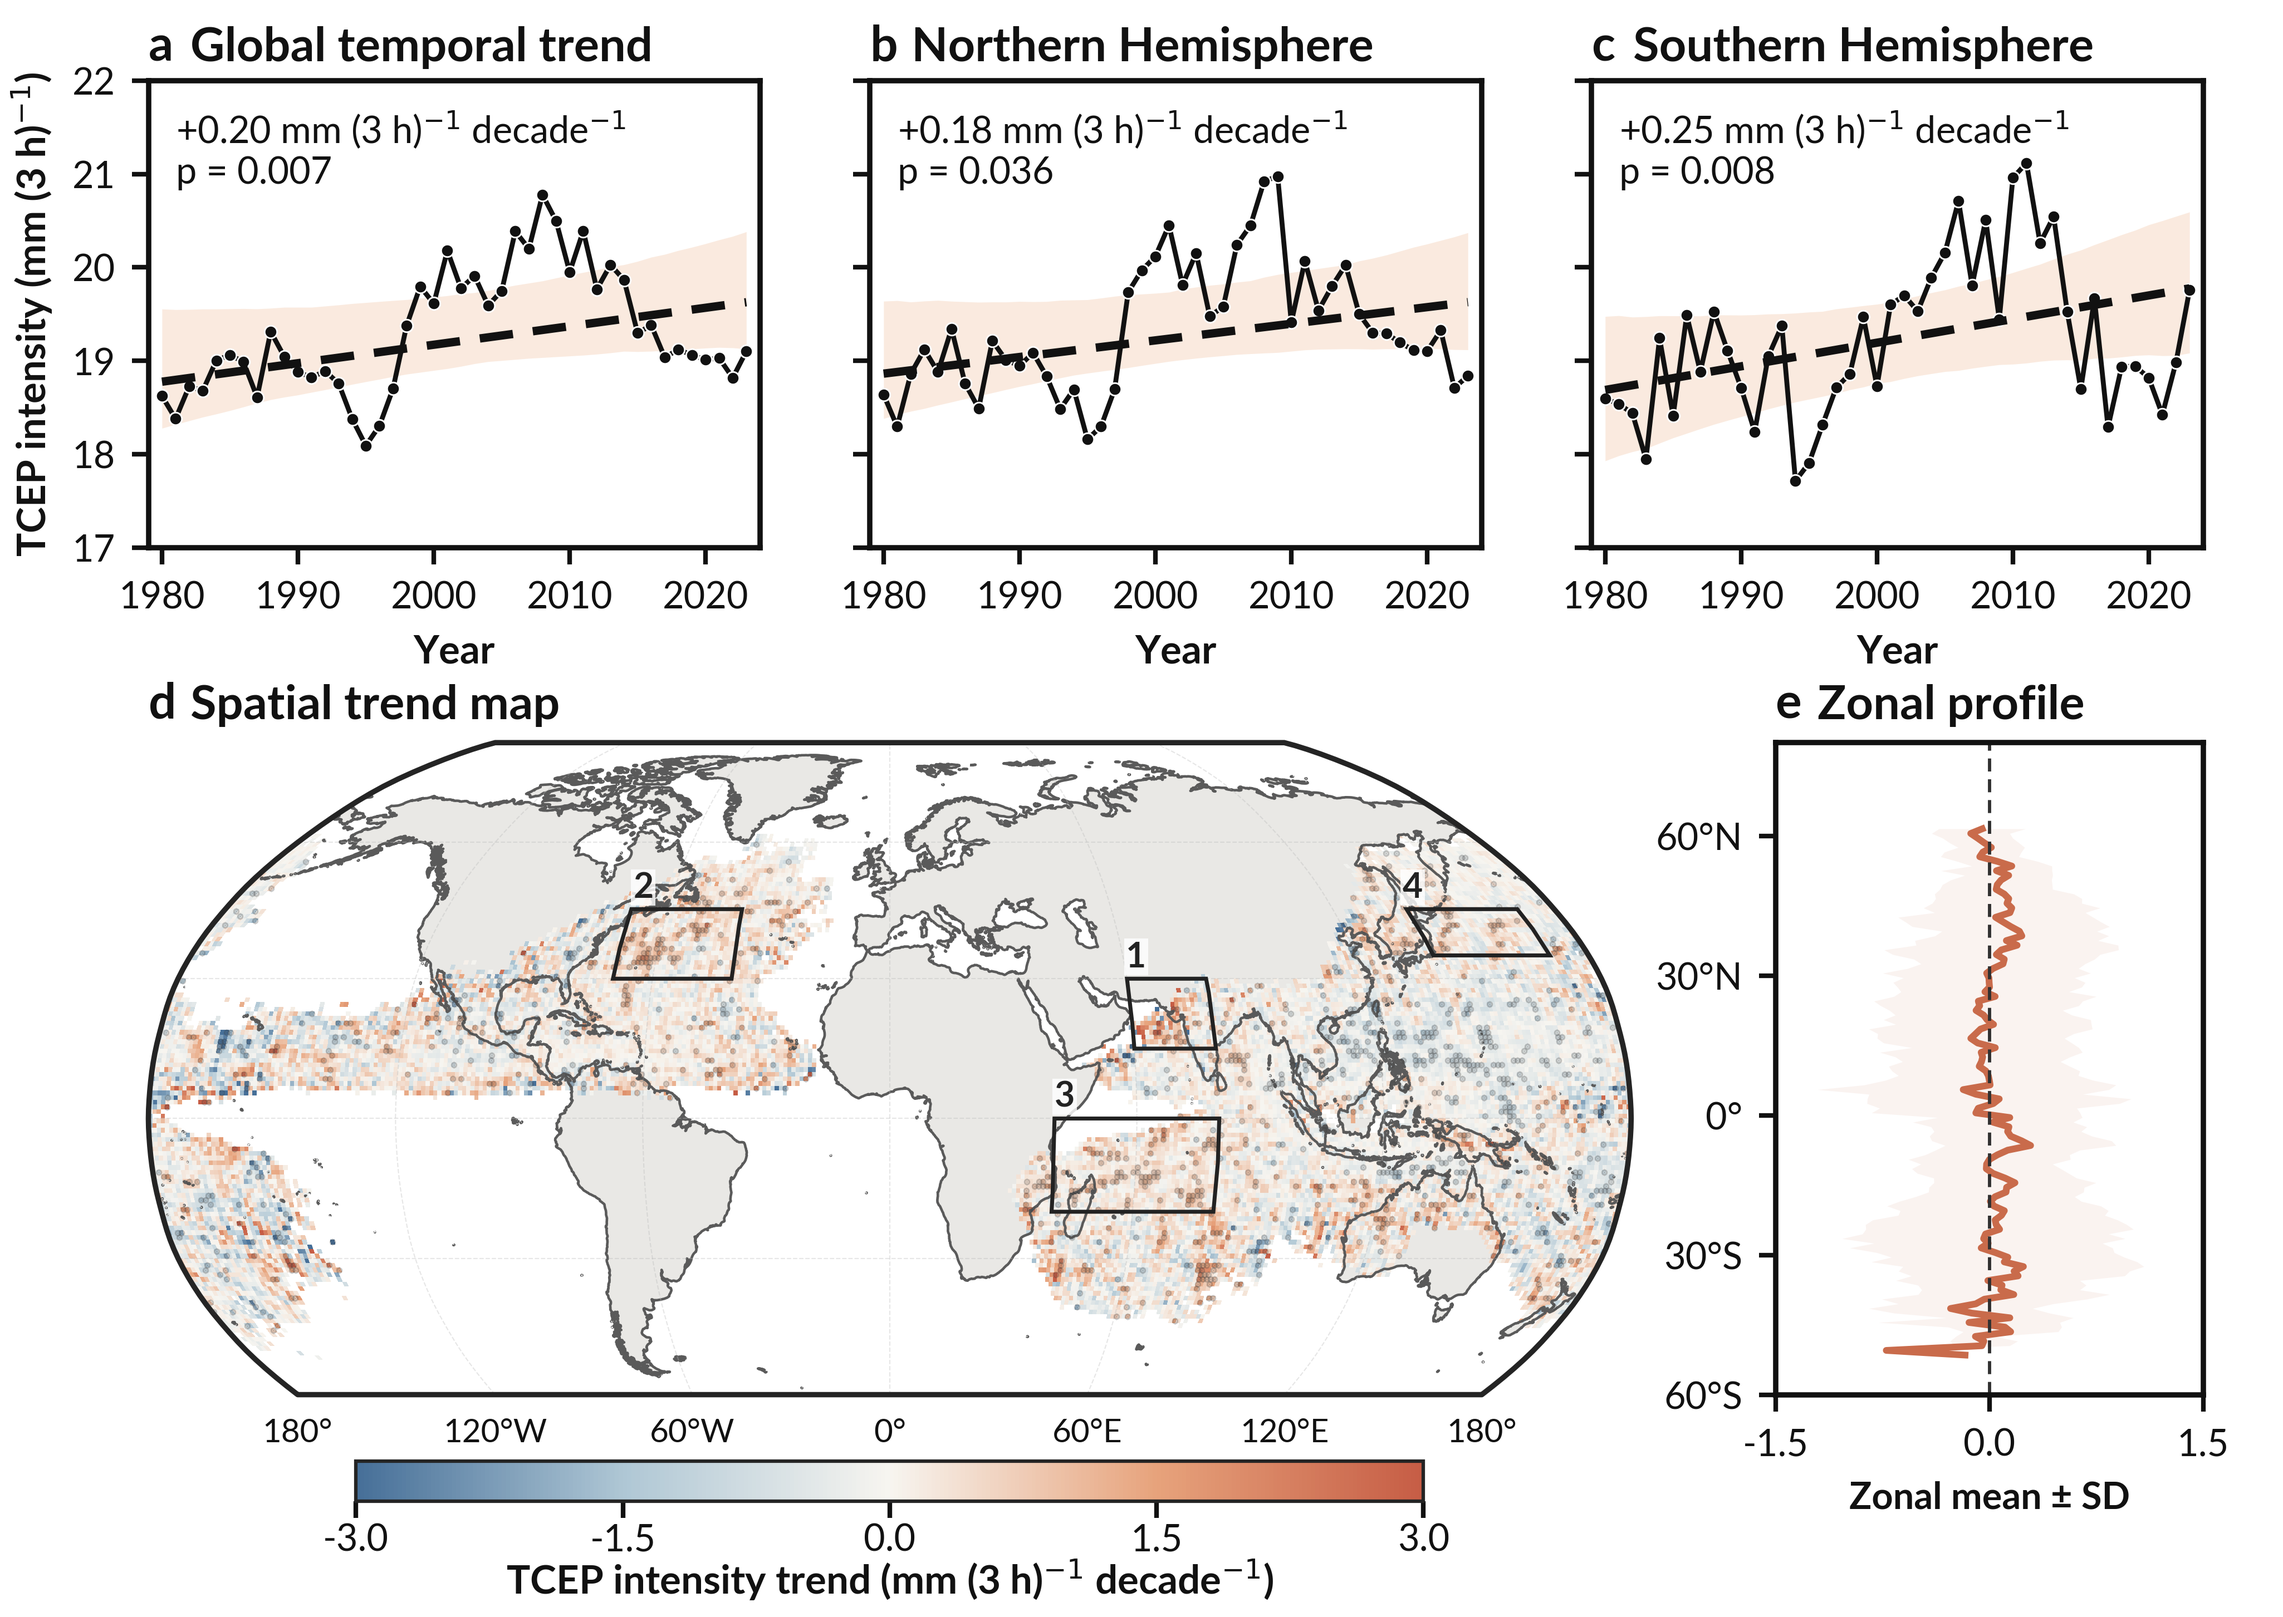
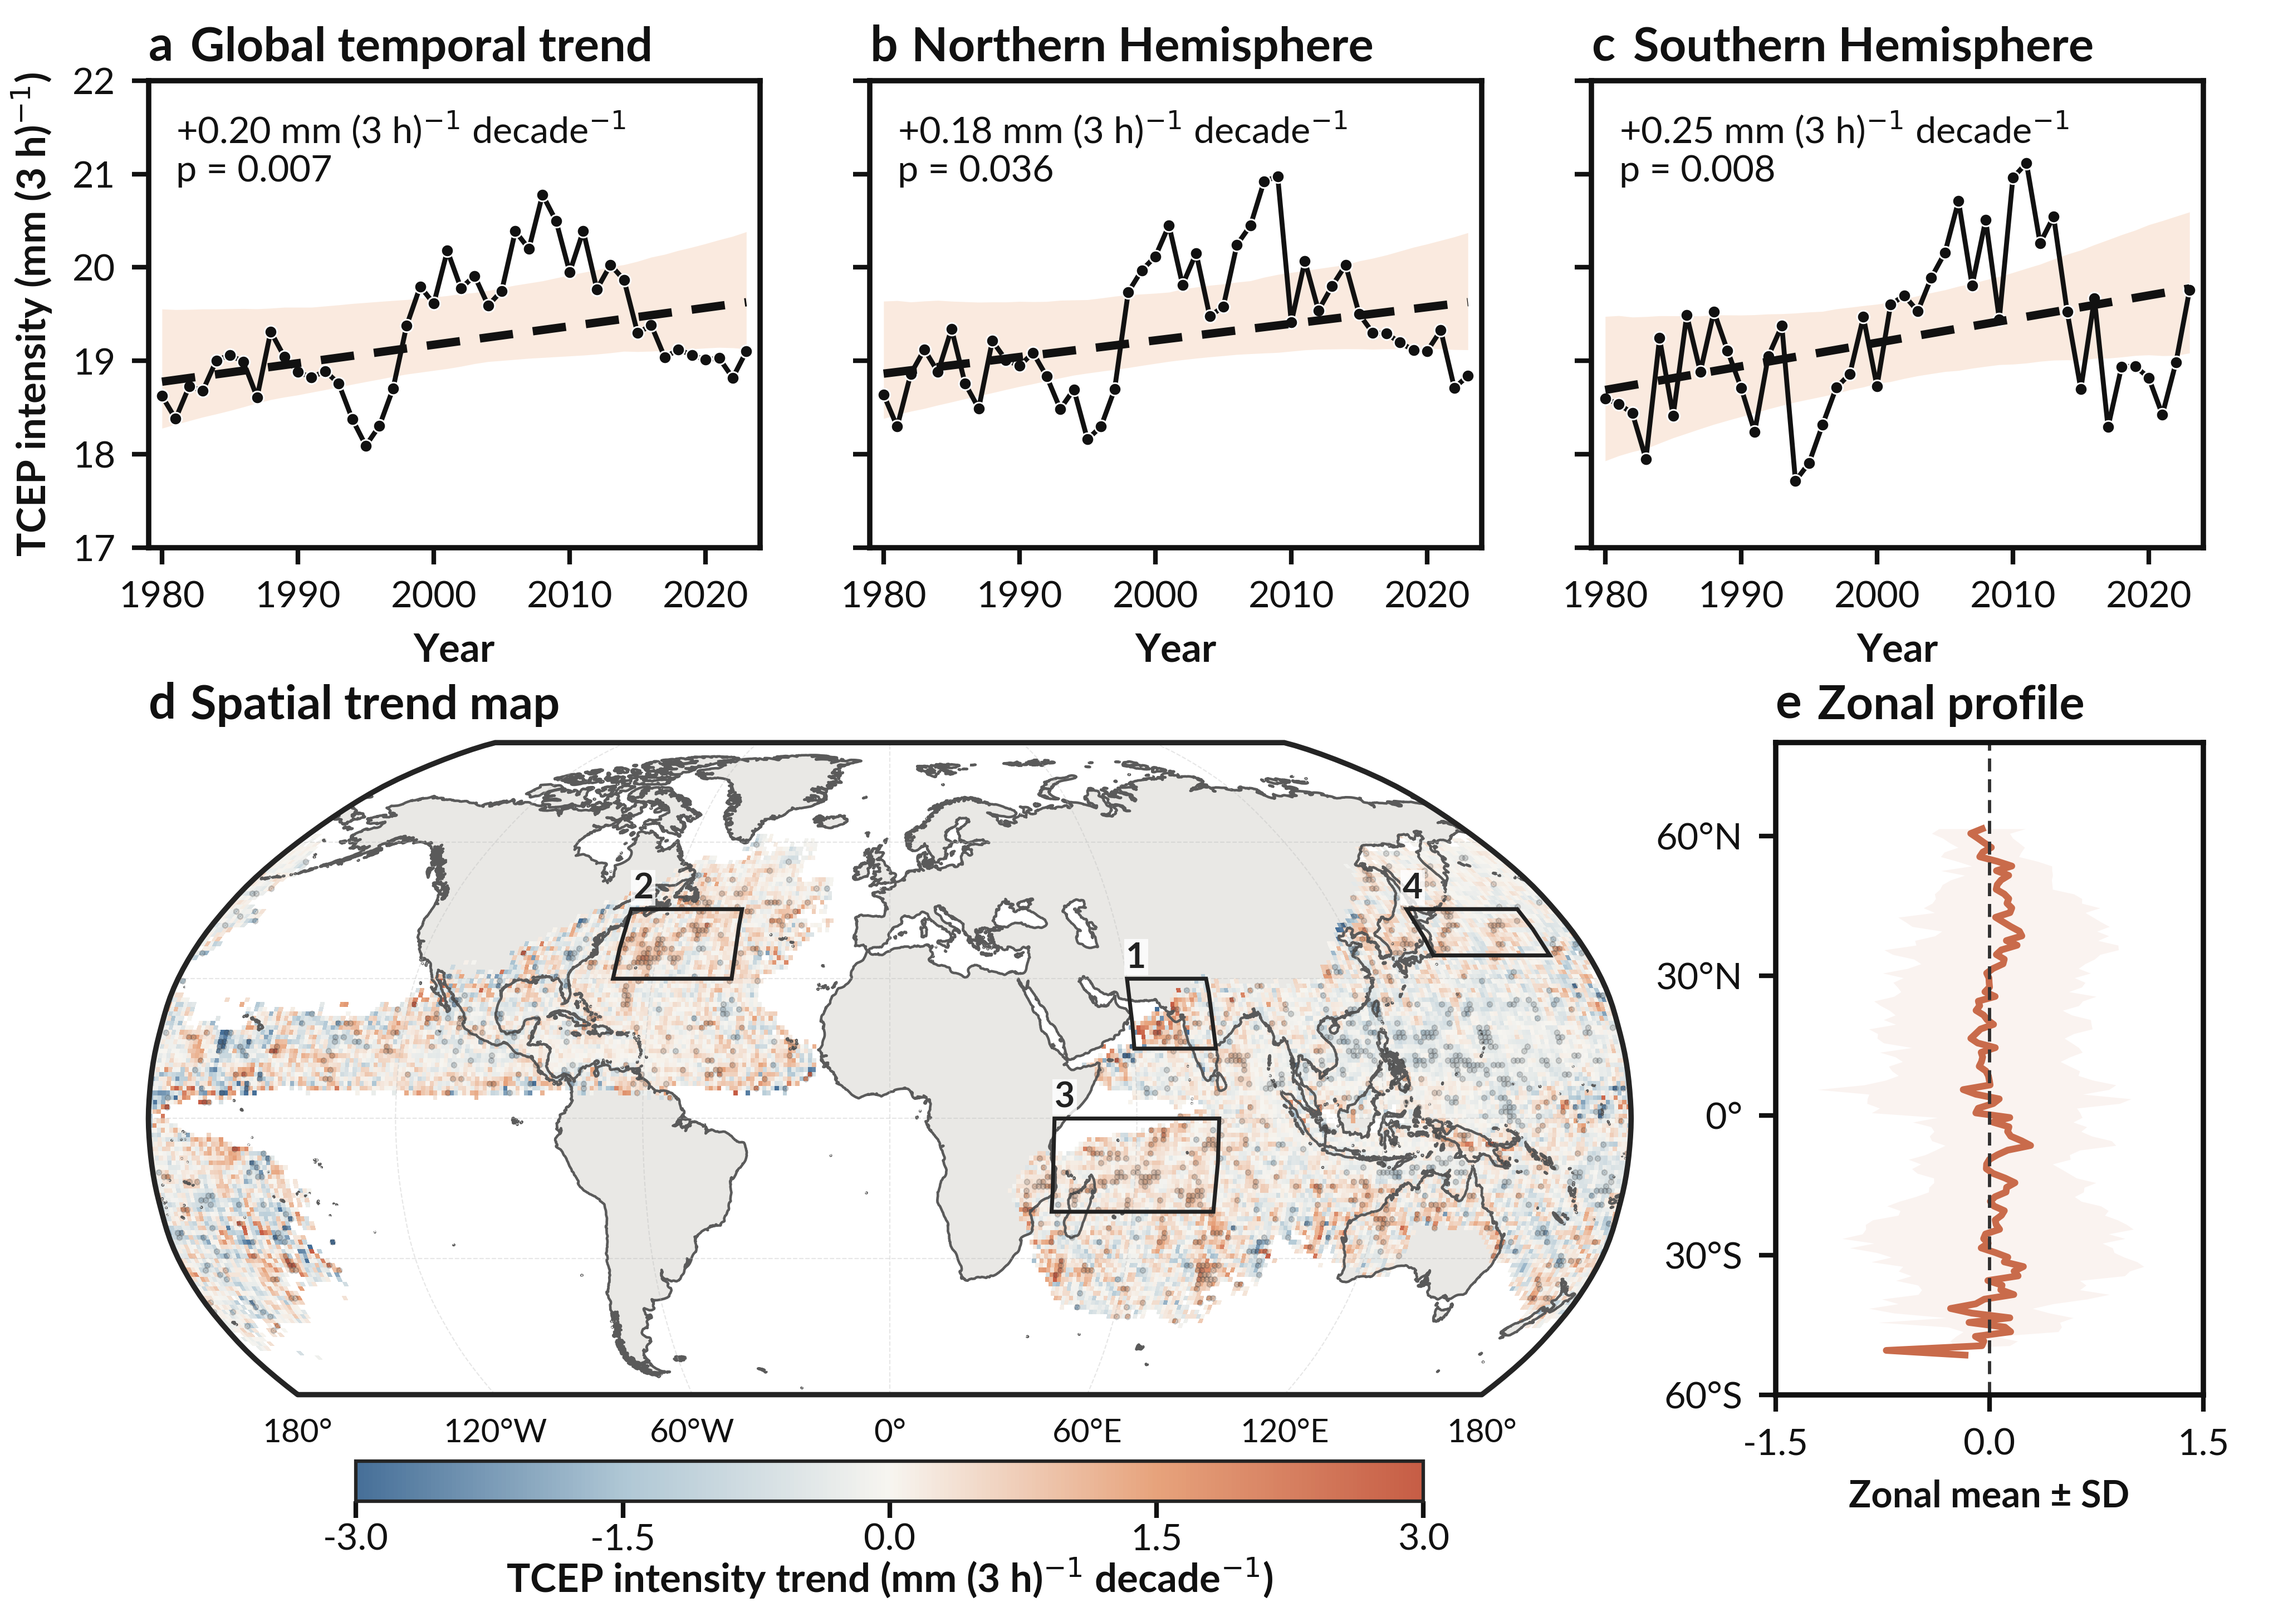
Correct and validate Figure 1 region descriptions

diff --git a/tests/test_figure_caption_consistency.py b/tests/test_figure_caption_consistency.py
@@ -1,0 +1,110 @@
+"""Guard against panel, region-name, and coordinate mismatches in captions."""
+
+from pathlib import Path
+import ast
+import json
+
+
+ROOT = Path(__file__).resolve().parents[1]
+
+
+def text(path):
+    return (ROOT / path).read_text(encoding="utf-8")
+
+
+def literal_assignment(path, name):
+    tree = ast.parse(text(path))
+    for node in ast.walk(tree):
+        if isinstance(node, ast.Assign):
+            if any(isinstance(target, ast.Name) and target.id == name for target in node.targets):
+                return ast.literal_eval(node.value)
+    raise AssertionError(f"{name} not found in {path}")
+
+
+def test_figure1_box_names_bounds_and_caption_are_synchronized():
+    folder = ROOT / "figures/Fig01_global_trends"
+    regions = json.loads((folder / "Fig01_boxes.json").read_text(encoding="utf-8"))
+    caption = (folder / "Fig01_caption.txt").read_text(encoding="utf-8")
+
+    expected = [
+        (1, "Arabian Sea and northwestern Indian Ocean", 60, 80, 15, 30),
+        (2, "western North Atlantic", -70, -40, 30, 45),
+        (3, "southern tropical Indian Ocean", 40, 80, -20, 0),
+        (4, "western North Pacific east of Japan", 140, 170, 35, 45),
+    ]
+    actual = [
+        (
+            region["box"],
+            region["name"],
+            region["lon_min"],
+            region["lon_max"],
+            region["lat_min"],
+            region["lat_max"],
+        )
+        for region in regions
+    ]
+    assert actual == expected
+    for region in regions:
+        assert -180 <= region["lon_min"] < region["lon_max"] <= 180
+        assert -90 <= region["lat_min"] < region["lat_max"] <= 90
+        phrase = (
+            f'{region["name"]} (box {region["box"]}; '
+            f'{region["caption_coordinates"]})'
+        )
+        assert caption.count(phrase) == 1
+
+    script = text("figures/Fig01_global_trends/plot_Fig01.py")
+    assert 'HERE / "Fig01_boxes.json"' in script
+    assert "centres =" not in script
+
+
+def test_main_figure_basin_panels_match_captions():
+    fig3 = literal_assignment(
+        "figures/Fig03_basin_intensity_trends/plot_Fig03.py", "B"
+    )
+    cap3 = text("figures/Fig03_basin_intensity_trends/Fig03_caption.txt")
+    fig3_caption_names = {
+        "North Indian": "North Indian Ocean",
+        "South Indian": "South Indian Ocean",
+    }
+    for _, panel, name in fig3:
+        assert f"{fig3_caption_names.get(name, name)} ({panel})" in cap3
+
+    fig4 = literal_assignment("figures/Fig04_basin_decomposition/plot_Fig04.py", "B")
+    cap4 = text("figures/Fig04_basin_decomposition/Fig04_caption.txt")
+    fig4_caption_names = {
+        "North Indian": "North Indian Ocean",
+        "South Indian": "South Indian Ocean",
+    }
+    for _, panel, name, _ in fig4:
+        assert f"({panel}) {fig4_caption_names.get(name, name)}" in cap4
+
+
+def test_hemisphere_and_record_type_panel_descriptions_match_code():
+    cap2 = text("figures/Fig02_latitude_decomposition/Fig02_caption.txt")
+    assert "(a) the Northern Hemisphere" in cap2
+    assert "(b) the Southern Hemisphere" in cap2
+
+    panels3 = literal_assignment("figures/FigS03_poleward_shifts/plot_FigS03.py", "P")
+    caps3 = text("figures/FigS03_poleward_shifts/FigS03_caption.txt")
+    labels3 = {
+        ("track", "NH"): "Northern Hemisphere TC-track records",
+        ("track", "SH"): "Southern Hemisphere TC-track records",
+        ("event", "NH"): "Northern Hemisphere TCEP events",
+        ("event", "SH"): "Southern Hemisphere TCEP events",
+    }
+    for kind, hemisphere, panel, _ in panels3:
+        phrase = f"{labels3[(kind, hemisphere)]} ({panel})"
+        assert phrase in caps3
+
+    caps4 = text("figures/FigS04_intensity_distributions/FigS04_caption.txt")
+    assert "Northern Hemisphere (a) and Southern Hemisphere (b)" in caps4
+
+    caps5 = text("figures/FigS05_land_ocean/FigS05_caption.txt")
+    assert "Panels (a,b)" in caps5
+    assert "Northern and Southern Hemispheres, respectively" in caps5
+    assert "Panels (c,d)" in caps5
+    script5 = text("figures/FigS05_land_ocean/plot_FigS05.py")
+    assert 'for j, h in enumerate(["NH", "SH"])' in script5
+    assert 'heading(ax, "ab"[j]' in script5
+    assert 'heading(ax, "cd"[j]' in script5

diff --git a/figures/Fig01_global_trends/plot_Fig01.py b/figures/Fig01_global_trends/plot_Fig01.py
@@ -1,6 +1,7 @@
 """Figure 1 in the manuscript five-panel GRL layout."""
 
 from pathlib import Path
+import json
 import sys
 import numpy as np
 import pandas as pd
@@ -173,14 +174,14 @@ def main():
     gl.left_labels = False
     gl.xlabel_style = {"size": 7}
     gl.ylabel_style = {"size": 7}
-    # Exploratory positive-trend centres; boxes are display annotations only.
-    centres = [
-        (1, 60, 15, 20, 15),
-        (2, -70, 30, 30, 15),
-        (3, 40, -20, 40, 20),
-        (4, 140, 35, 30, 10),
-    ]
-    for number, lon0, lat0, width, height in centres:
+    # Display annotations only; names and bounds share one validated metadata source.
+    regions = json.loads((HERE / "Fig01_boxes.json").read_text(encoding="utf-8"))
+    for region in regions:
+        number = region["box"]
+        lon0 = region["lon_min"]
+        lat0 = region["lat_min"]
+        width = region["lon_max"] - lon0
+        height = region["lat_max"] - lat0
         ax.add_patch(
             Rectangle(
                 (lon0, lat0),

diff --git a/scripts/verify_release.py b/scripts/verify_release.py
@@ -93,6 +93,19 @@ def verify(bootstrap=False):
         int((spatial.p_value < 0.05).sum()),
         expected["significant_map_cells"],
     )
+    figure1_dir = ROOT / "figures/Fig01_global_trends"
+    regions = json.loads((figure1_dir / "Fig01_boxes.json").read_text(encoding="utf-8"))
+    caption = (figure1_dir / "Fig01_caption.txt").read_text(encoding="utf-8")
+    assert [region["box"] for region in regions] == [1, 2, 3, 4]
+    for region in regions:
+        assert region["lon_min"] < region["lon_max"]
+        assert region["lat_min"] < region["lat_max"]
+        expected_phrase = (
+            f'{region["name"]} (box {region["box"]}; '
+            f'{region["caption_coordinates"]})'
+        )
+        assert expected_phrase in caption
+    checks.append("Figure 1 box metadata matches caption")
     lat = read("figures/FigS03_poleward_shifts/data/FigS03_annual_mean_latitude.csv")
     for item in expected["latitude_trends"]:
         q = lat[

diff --git a/README.md b/README.md
@@ -2,7 +2,7 @@
 
 This project provides code to construct a global tropical cyclone extreme precipitation (TCEP) dataset using the tropical cyclone precipitation feature (TCPF) approach. It applies frequency-weighted latitude-band decomposition to quantify how within-band intensity changes and latitudinal redistribution contribute to changes in mean TCEP intensity. The package includes processing and analysis scripts, plotting code, and derived source data for reproducing the manuscript results.
 
-Version 1.1.0: [GitHub release](https://github.com/kelly-Liu44/TCEP-latitude-analysis/releases/tag/v1.1.0) and [Zenodo archive](https://doi.org/10.5281/zenodo.22857802).
+Version 1.1.1: [GitHub release](https://github.com/kelly-Liu44/TCEP-latitude-analysis/releases/tag/v1.1.1) and [Zenodo archive](https://doi.org/10.5281/zenodo.22857799).
 
 ## Start here
 
